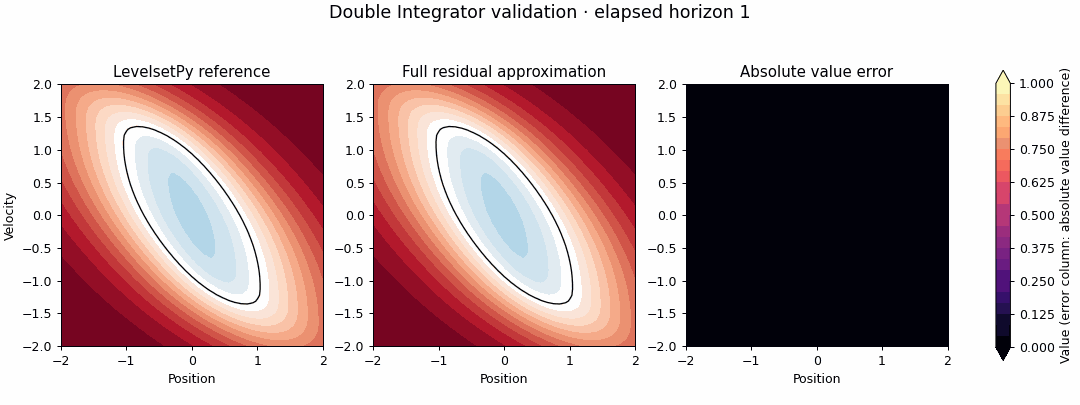
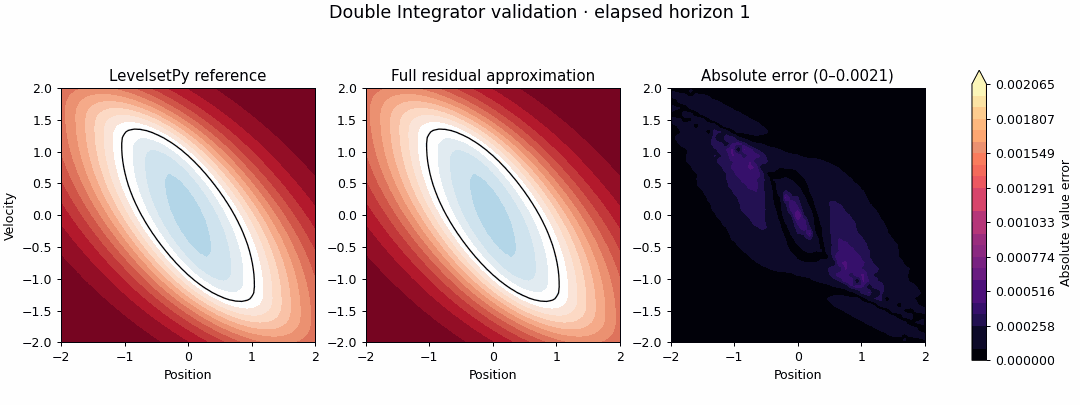
Scale validation errors and match rocket comparison

diff --git a/scripts/generate_royal_soc_animations.py b/scripts/generate_royal_soc_animations.py
@@ -13,7 +13,7 @@ CASES = [
     ('murmuration', 'murmuration_full_192_800_L6_c0.2_fd', 'murmuration_reference_192_800_L6_c0.2_fd', 'roysoc_murmuration', 'Starlings validation', 3, ('Relative position x₁', 'Relative position x₂'), 0),
     ('double_integrator', 'double_integrator_full_128_800_L6_c0.2', 'double_integrator_reference_128_800_L6_c0.2', 'roysoc_double_integrator', 'Double Integrator', 2, ('Position', 'Velocity'), None),
     ('dubins_relative', 'dubins_relative_full_224_400_L6_c0.2', 'dubins_relative_reference_224_400_L6_c0.2', 'roysoc_dubins', 'Dubins', 2, ('Relative position x₁', 'Relative position x₂'), 0),
-    ('rockets', 'rockets_full_160_400_L6_c0.35', 'rockets_reference_160_400_L6_c0.2', 'roysoc_rockets', 'Rockets', 3, ('Relative position x₁', 'Relative position x₂'), 0),
+    ('rockets', 'rockets_full_160_400_L6_c0.2', 'rockets_reference_160_400_L6_c0.2', 'roysoc_rockets', 'Rockets', 3, ('Relative position x₁', 'Relative position x₂'), 0),
 ]
 
 def digest(p): return hashlib.sha256(p.read_bytes()).hexdigest()
@@ -36,30 +36,33 @@ def interpolate(data, field, x, y):
 def render(root,out,case):
     name,fr,rr,stem,title,extent,labels,heading=case
     frec,fd,fh=load(root,fr); rrec,rd,rh=load(root,rr)
-    for key in ('case','delta','horizon','bounds','shape'):
+    for key in ('case','delta','horizon','bounds','shape','coefficient_base'):
         if frec.get(key)!=rrec.get(key): raise ValueError(f'{name}: unmatched {key}')
     times=sorted((float(k[2:]),k) for k in fd if k.startswith('t_'))
     rt={float(k[2:]):k for k in rd if k.startswith('t_')}
     if [t for t,k in times] != sorted(rt): raise ValueError(f'{name}: reference times differ')
     axis=np.linspace(-extent,extent,129);X,Y=np.meshgrid(axis,axis,indexing='xy');frames=[];maxerr=0
+    fields=[]
     for t,k in times:
-        a=interpolate(rd,rd[rt[t]],X,Y); b=interpolate(fd,fd[k],X,Y); E=np.abs(a-b);maxerr=max(maxerr,float(E.max()))
+        a=interpolate(rd,rd[rt[t]],X,Y); b=interpolate(fd,fd[k],X,Y); E=np.abs(a-b);maxerr=max(maxerr,float(E.max()));fields.append((t,a,b,E))
+    for t,a,b,E in fields:
         fig,axs=plt.subplots(1,3,figsize=(12,4.5),dpi=90,layout='constrained')
         vmax=max(1.,float(np.max(np.abs(np.r_[a.ravel(),b.ravel()]))));im=None
-        for ax,z,ttl in zip(axs,[a,b,E],['LevelsetPy reference','Full residual approximation','Absolute value error']):
-            im=ax.contourf(X,Y,z,levels=np.linspace(0 if ttl.startswith('Absolute') else -vmax,vmax,25),cmap='magma' if ttl.startswith('Absolute') else 'RdBu_r',extend='both')
+        for ax,z,ttl in zip(axs,[a,b,E],['LevelsetPy reference','Full residual approximation',f'Absolute error (0–{maxerr:.2g})']):
+            error=ttl.startswith('Absolute')
+            im=ax.contourf(X,Y,z,levels=np.linspace(0,maxerr,25) if error else np.linspace(-vmax,vmax,25),cmap='magma' if error else 'RdBu_r',extend='max' if error else 'both')
             if not ttl.startswith('Absolute') and z.min()<0<z.max(): ax.contour(X,Y,z,[0],colors='black',linewidths=1)
             ax.set(xlim=(-extent,extent),ylim=(-extent,extent),aspect='equal',xlabel=labels[0],title=ttl)
             ax.set_ylabel(labels[1] if ax is axs[0] else '')
         fig.suptitle(f'{title} validation · elapsed horizon {t:g}',fontsize=14)
-        fig.colorbar(im,ax=axs.ravel().tolist(),shrink=.78,label='Value (error column: absolute value difference)')
+        fig.colorbar(im,ax=axs.ravel().tolist(),shrink=.78,label='Absolute value error' if error else 'Value')
         if heading is not None: fig.text(.5,.005,f'Heading = {heading} rad · matched saved snapshots',ha='center',fontsize=8)
         with io.BytesIO() as bfr:
             fig.savefig(bfr,format='png');bfr.seek(0);frames.append(Image.open(bfr).convert('P',palette=Image.Palette.ADAPTIVE,colors=192).copy())
         plt.close(fig)
     gif=out/(stem+'.gif');frames[0].save(gif,save_all=True,append_images=frames[1:],duration=[400]*(len(frames)-1)+[1200],loop=0,optimize=False,disposal=2)
     frames[-1].convert('RGB').save(out/(stem+'_poster.png'))
-    return dict(label=title,case=name,approximation_run=fr,reference_run=rr,approximation_sha256=fh,reference_sha256=rh,times=[t for t,k in times],max_absolute_difference=maxerr,gif_sha256=digest(gif))
+    return dict(label=title,case=name,approximation_run=fr,reference_run=rr,approximation_sha256=fh,reference_sha256=rh,times=[t for t,k in times],max_absolute_difference=maxerr,error_scale_max=maxerr,gif_sha256=digest(gif))
 
 def main():
     p=argparse.ArgumentParser();p.add_argument('--source',type=Path,required=True);p.add_argument('--output',type=Path,default=Path(__file__).resolve().parents[1]/'downloads/Papers/assets/anim');a=p.parse_args();a.output.mkdir(parents=True,exist_ok=True)
